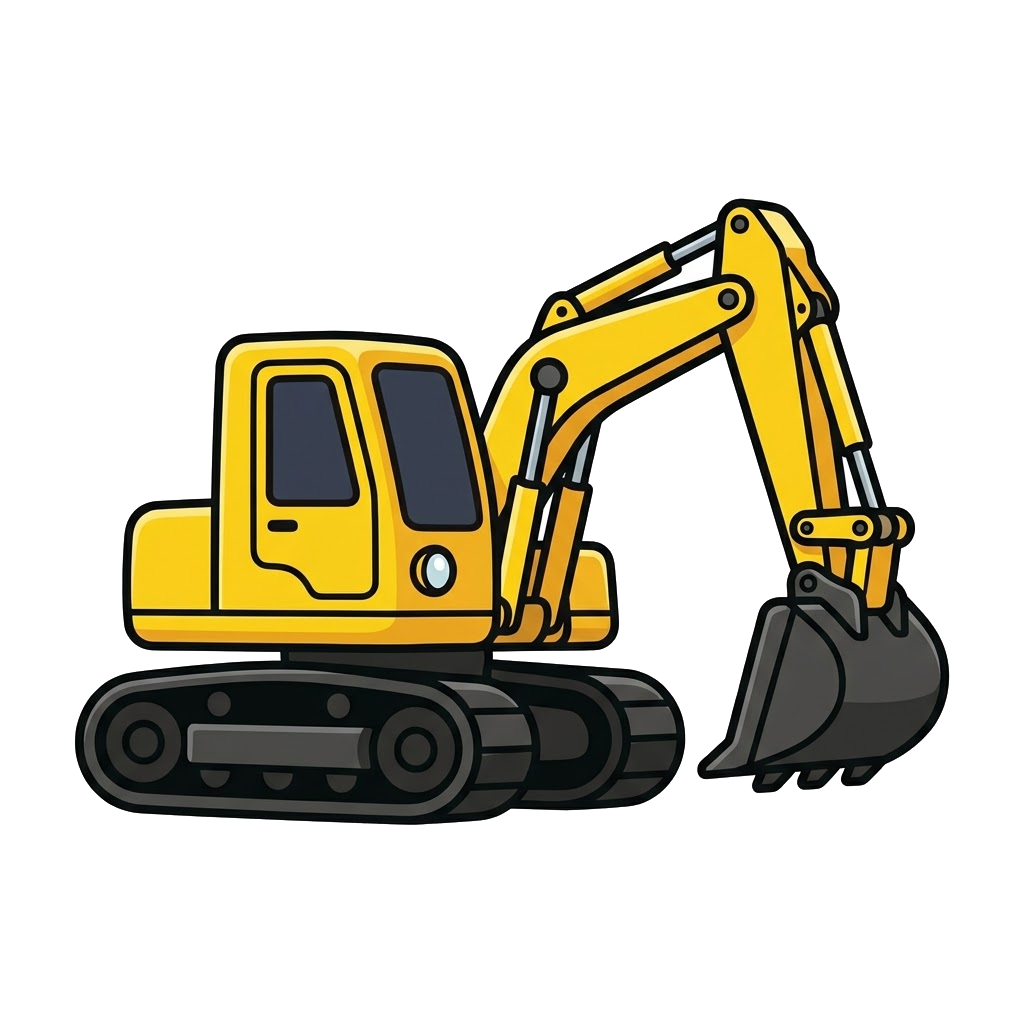
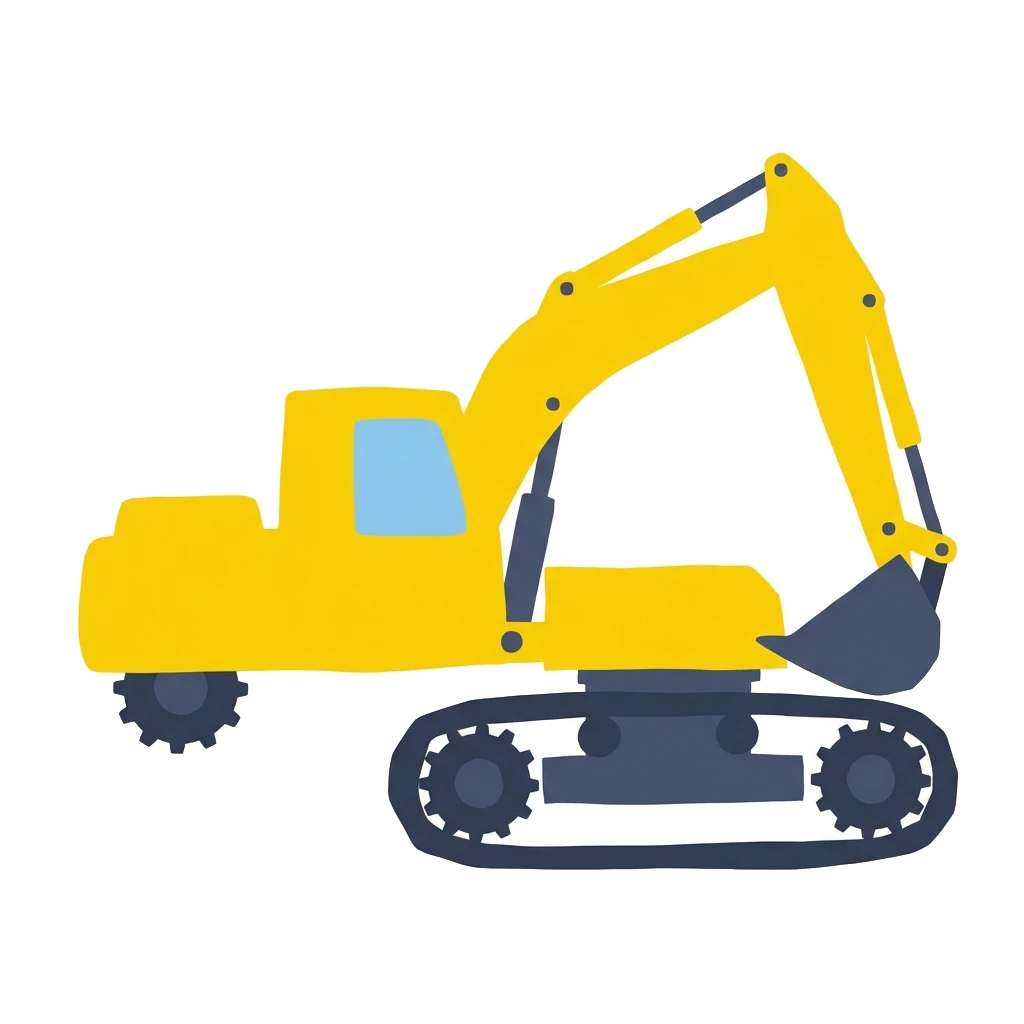
工程車 8 張換成 Pok Pok 風：無框線平塗色塊、去背，整組一次換齊
黃橘色系為主、每台顏色錯開（挖土機黃、推土機橘、攪拌車橘灰、砂石車綠黃…）。
同檔名原地換圖，.meta 與 Deck 的 GUID 參照不變。指南補上工程車 Subject 表與白車身要寫米白的註記。

diff --git a/CLAUDE.md b/CLAUDE.md
@@ -44,7 +44,7 @@
 ## 素材現況（2026-11-04）
 
 - 主題 7 組：動物 12、水果 12、交通工具 11、工程車 8、顏色 8（程式畫色球）、生活用品 10（Gemini，2026-11-04）、身體 8（Gemini，2026-11-04，小熊指著該部位）。**七組全部有圖，69 張卡的圖與語音都已接進 Deck 資產**（2026-11-05 跑完選單 2 確認 69/69）。注意「有 PNG」不等於「Deck 接上了」：丟完素材沒跑選單 2 的話，Deck 裡的 `image` 會留在 `{fileID: 0}`，整組就退回純文字卡——身體與生活用品兩組就這樣空轉過一段時間。要查就 grep `Assets/BabyApp/Resources/Decks/Deck_*.asset` 還有沒有 `image: {fileID: 0}`。身體卡的 prompt：「Same style, same honey bear character. Subject: the honey bear cub <動作>, front view, whole body visible.」，第一張要先貼小熊角色設定。
-- **2026-11-12 起改成 Pok Pok 風（平塗色塊、無框線、無陰影，見 docs/research/2026-11-12-PokPok風格.md 第 9 節）**，動物 12 張、水果 12 張（2026-11-13）、交通工具 11 張（2026-11-14）與小熊 5 張已換成新風格並去背；工程車、生活用品、身體與 4 張封面在 Assets 裡還是舊的粗黑邊風格，待換（整組換齊才搬進 Assets，不要一組裡兩種風格）。舊圖全部 Gemini 生成並去背（2026-10-23）。OpenMoji 已不再使用（tools/openmoji-* 只是歷史）。
+- **2026-11-12 起改成 Pok Pok 風（平塗色塊、無框線、無陰影，見 docs/research/2026-11-12-PokPok風格.md 第 9 節）**，動物 12 張、水果 12 張（2026-11-13）、交通工具 11 張（2026-11-14）、工程車 8 張（2026-11-16，Subject 在 docs/AI圖片生成指南.md）與小熊 5 張已換成新風格並去背；生活用品、身體與 4 張封面在 Assets 裡還是舊的粗黑邊風格，待換（整組換齊才搬進 Assets，不要一組裡兩種風格）。舊圖全部 Gemini 生成並去背（2026-10-23）。OpenMoji 已不再使用（tools/openmoji-* 只是歷史）。
 - 叫聲：25 個來自 Wikimedia Commons（出處在 docs/素材授權.md）。卡車＝柴油引擎、消防車＝消防鐘、工程車組共用柴油、堆高機專屬。兔子沒叫聲。
 - 名稱語音與小熊台詞（2026-11-05 換成 **Azure AI Speech**）：中文 `zh-TW-HsiaoYuNeural`（曉雨，使用者試聽三個聲音後選的）、英文 `en-US-AvaMultilingualNeural`，語速 -10%，全部是剪掉頭尾靜音的 24kHz `.wav`（卡名 0.4～0.8 秒，以前 edge-tts 每個都墊到 1.87 秒）。工具 `python tools/make-voices-azure.py --voice zh-TW-HsiaoYuNeural --cards --prompts`（`--trial` 試聽到 `tools/azure-trial/`、`--list-voices`），**會蓋掉同名檔**。金鑰放 `tools/azure.key`（第一行 KEY 1、第二行區域 `eastasia`，已 gitignore，記事本存檔會多個 `.txt` 要改掉）；資源是 Free F0 層、每月 50 萬字免費，F0 商用授權不明，**發佈前改 S0 重跑一次整批**。台詞清單在 `tools/prompts.csv`，2026-11-05 全部縮短過（「哇～答對了！你好棒喔！」→「答對了！好棒！」），有逗號的句子要加引號不然 csv 會切掉。舊的 edge-tts `.mp3` 已全刪，`make-voices-edge.py` 只是歷史。**不要跑 `make-prompts.ps1`／`make-voices.ps1`**（舊的 SAPI 版）：它們只檢查 `.wav` 存不存在，會把全部台詞重生成 SAPI 的 `.wav`，而 Builder 的 `Prompt()` 優先吃 `.wav`，小熊的聲音會整個被換掉。
 - 吉祥物：五張蜂蜜小熊 Gemini 生成並去背（Art/Mascot，2026-11-13 換成 Pok Pok 風、無框線）。`EnsureMascotPlaceholders()` 只在檔案缺時畫程式佔位。

diff --git a/docs/AI圖片生成指南.md b/docs/AI圖片生成指南.md
@@ -97,10 +97,27 @@ visible, filling most of the frame.
 | `vehicle_boat.png` | 船 | a small wooden boat with a white sail, side view |
 | `vehicle_bicycle.png` | 腳踏車 | a blue bicycle, side view |
 | `vehicle_motorcycle.png` | 機車 | a red scooter, side view |
-| `vehicle_firetruck.png` | 消防車 | a red fire engine with a ladder, side view |
-| `vehicle_ambulance.png` | 救護車 | a white ambulance with a red cross, side view |
-| `vehicle_police.png` | 警車 | a white and blue police car, side view |
+| `vehicle_firetruck.png` | 消防車 | a red fire engine with a ladder on top, side view |
+| `vehicle_ambulance.png` | 救護車 | a cream-white ambulance (body color warm cream #f3eedf, not pure white) with a red cross on the side and light blue windows, side view |
+| `vehicle_police.png` | 警車 | a police car, cream-white body (warm cream #f3eedf, not pure white) with a blue stripe along the side, a small blue light on the roof and light blue windows, side view |
 | `vehicle_excavator.png` | 挖土機 | a yellow excavator with its arm lowered, side view |
+
+白色的車身一定要寫成米白（`cream-white … not pure white`）：純白主體在白底上去背時會整塊被淹掉。
+
+### 工程車（8 張）— 存到 `Assets/BabyApp/Art/Cards/Construction/`
+
+2026-11-16 用這些 Subject 生的，黃橘色系為主、每台顏色錯開好分辨。
+
+| 檔名 | 中文名 | Subject |
+|---|---|---|
+| `construction_excavator.png` | 挖土機 | a yellow excavator with a digging arm and bucket on tracks, side view |
+| `construction_bulldozer.png` | 推土機 | an orange bulldozer with a big flat blade in front, on tracks, light blue window, side view |
+| `construction_crane.png` | 吊車 | a yellow mobile crane truck with a long raised boom and a hook hanging from it, light blue window, side view |
+| `construction_mixer.png` | 水泥攪拌車 | a cement mixer truck with an orange cab and a big tilted light-grey mixing drum with two orange stripes, light blue window, side view |
+| `construction_dump.png` | 砂石車 | a dump truck with a green cab and a yellow open-top tipping box filled with a heap of brown gravel, light blue window, side view |
+| `construction_roller.png` | 壓路機 | a yellow road roller with one huge dark slate roller drum in front and a big wheel at the back, small cab with light blue window, side view |
+| `construction_forklift.png` | 堆高機 | an orange forklift with a tall mast and two forks in front lifting one brown wooden crate, open cab with a roof frame, side view |
+| `construction_loader.png` | 鏟裝機 | a yellow wheel loader with four big round wheels (no tracks) and a wide scoop bucket raised in front on two arms, cab with light blue window, side view |
 
 ### 主題封面（3 張，可選）
 
